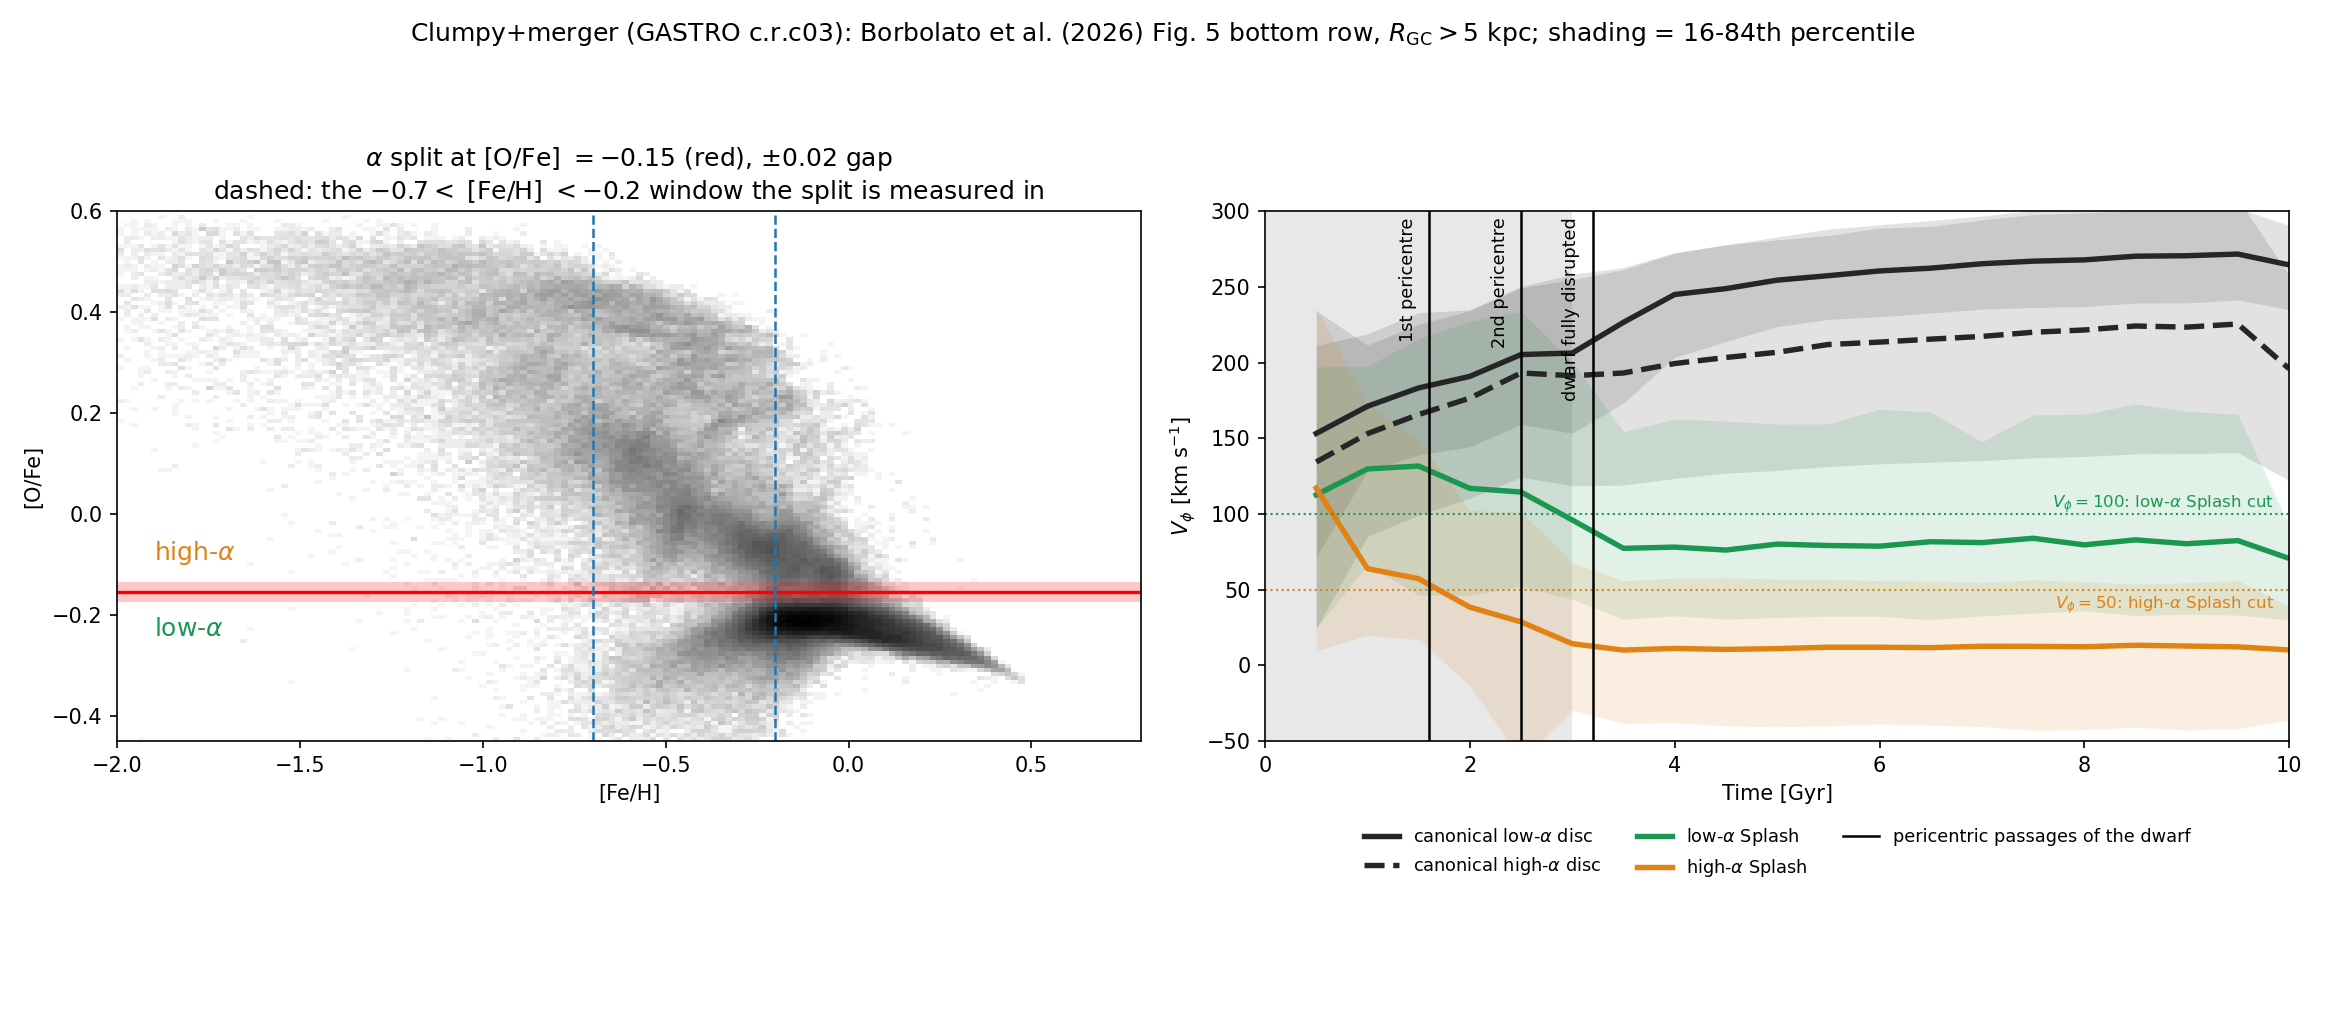
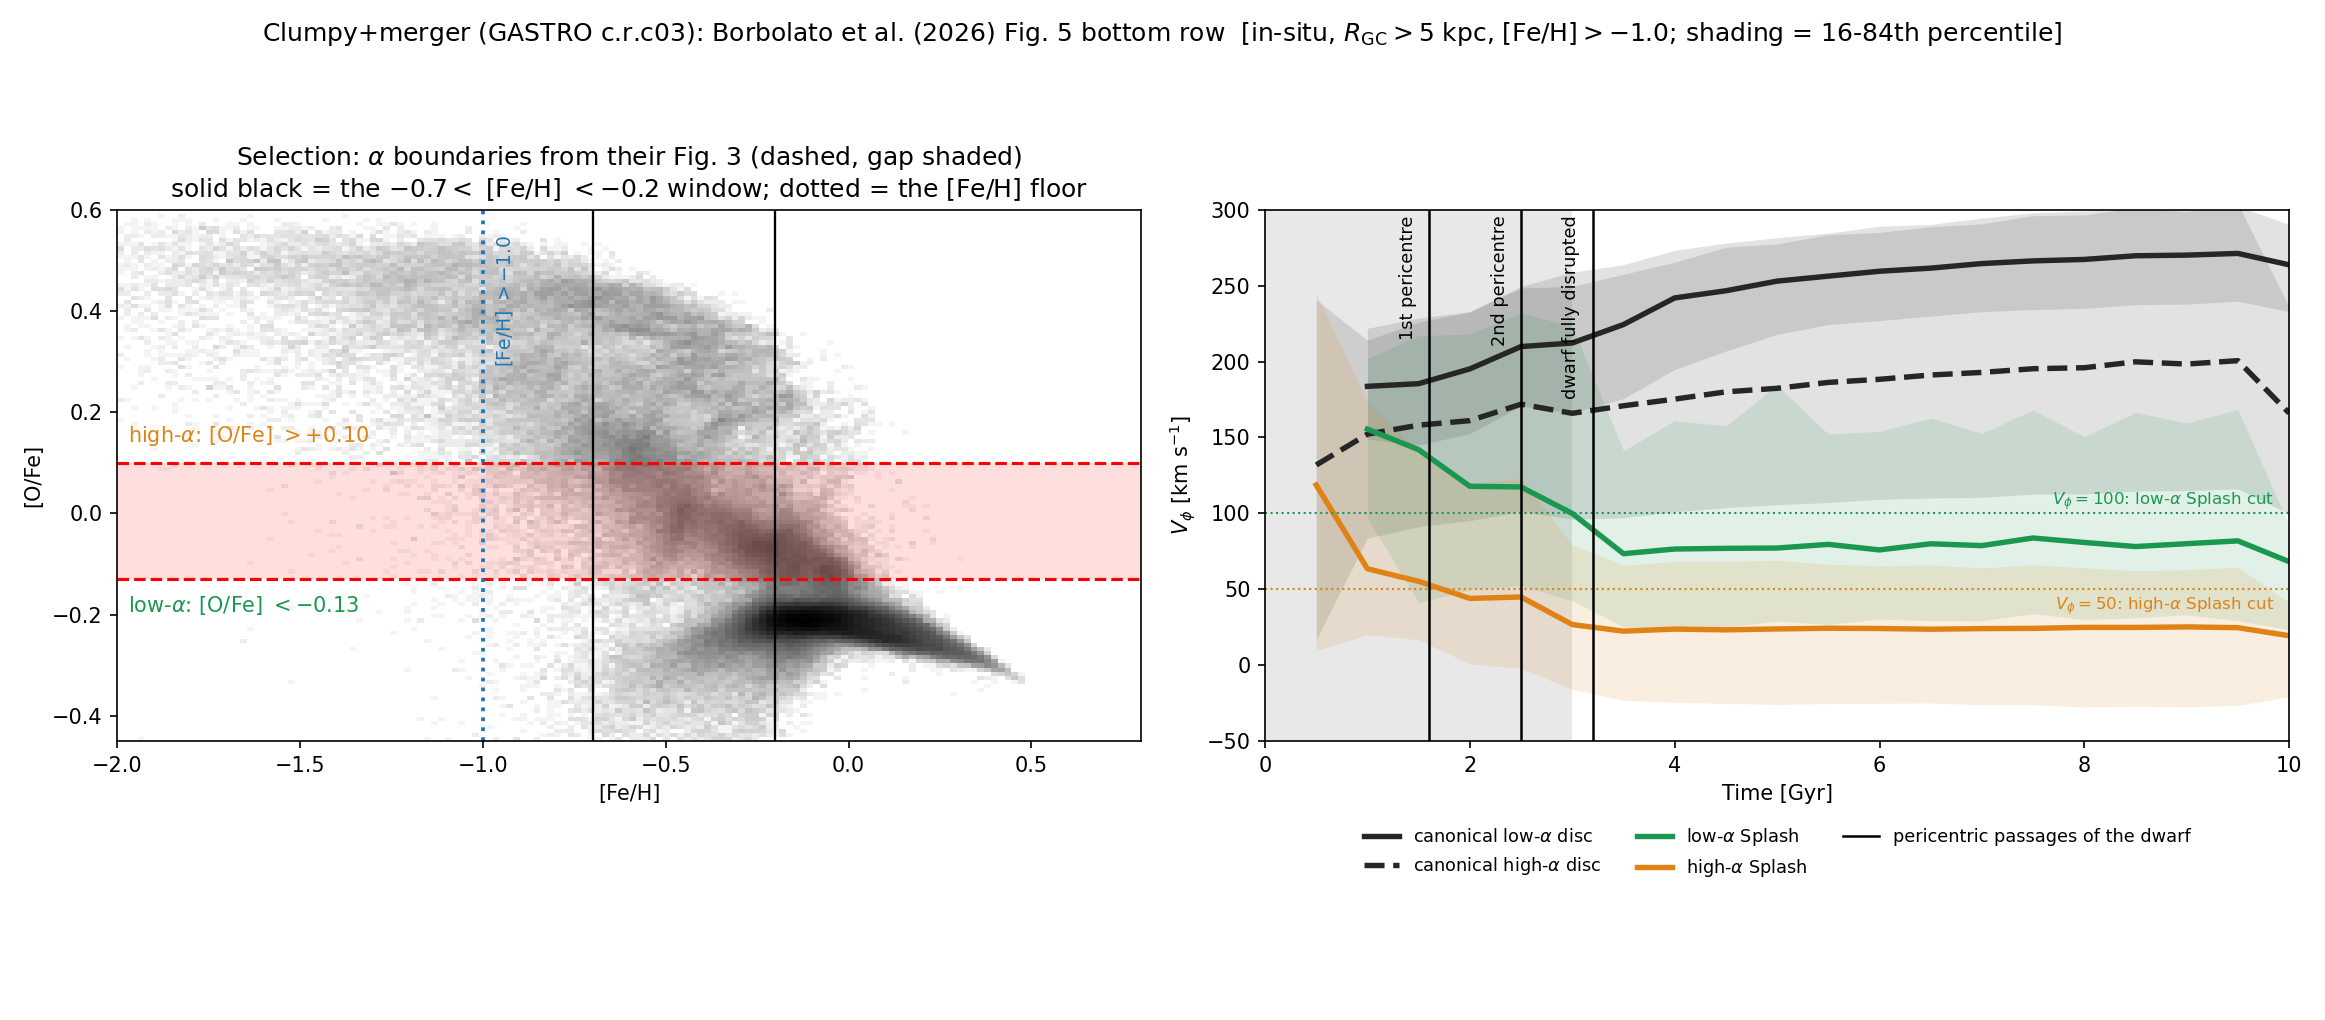
Fix the Fig. 5 Splash track: apply the paper's [Fe/H] > -1.0 floor
The low-alpha Splash track started ~50 km/s below the disc at t=1 Gyr, where the
published figure has the two meeting. Ruled out the alpha threshold, satellite
exclusion, mean vs median, the radial cut and the frame alignment (realigning on
in-situ stars inside 8 kpc moves the t=1 median by 0.6 km/s), then found the
cause in the sample rather than the measurement.

Without a metallicity floor the low-alpha sample picks up a metal-poor tail: the
stars in it born before t=1 Gyr sit at [Fe/H]=-1.2 and [O/Fe]=-0.29 while their
birth cohort sits at +0.28, i.e. a 1.7% chemically odd tail rather than disc
stars, and they are already dynamically hot. Borbolato et al. Section 3.1 select
their disks for [Fe/H] > -1.0, which removes them.

With the floor the disc track reads 184 km/s at t=1 Gyr against the 182 read off
their figure, the Splash track rises from 130 to 155, the track begins at t=1 Gyr
as theirs does (earlier snapshots hold too few stars), and the low-alpha Splash
fraction is 0.26% against 0.25% in their APOGEE sample.

Also adopts their printed alpha boundaries, [O/Fe] < -0.13 and > +0.10 from their
Fig. 3 col. 4, in place of the +/-0.02 gap around the measured valley; the
independently measured valley at -0.155 agrees with their -0.13.

diff --git a/gastro/ana_gastro_fig5.py b/gastro/ana_gastro_fig5.py
@@ -1,24 +1,31 @@
 """Bottom-row reproduction of Borbolato et al. (2026) Figure 5, Clumpy+merger model.
 
 Two panels:
-  left   the [O/Fe]-[Fe/H] plane with the high/low-alpha boundary drawn on it,
-         which is the one step of their recipe that has to be inferred rather
-         than read off, so it is shown rather than asserted;
+  left   the [O/Fe]-[Fe/H] plane with the selection drawn on it, so the cuts are
+         visible rather than asserted;
   right  their Figure 5 bottom row: the evolution of V_phi for the low- and
          high-alpha Splash against their canonical discs.
 
-Cuts follow Borbolato et al. Section 3.1-3.2 exactly:
-  * oxygen is the alpha tracer; the split is the valley in the [O/Fe] histogram
-    taken over -0.7 < [Fe/H] < -0.2, with an exclusion gap either side (their
-    "gap between the two populations to avoid regions where they may overlap");
-  * R_GC > 5 kpc, as in their Section 3.2 ("stars at R_GC < 5 kpc are excluded
-    from the analysis").  This is the literal cut, not one rescaled by the disc
-    scale length: it reproduces their Splash fractions, 0.21% of the low-alpha
-    and 8.10% of the high-alpha population here against 0.25% and 8.16% in their
-    APOGEE sample, whereas rescaling by R_d gives 0.43% and 6.73%;
-  * Splash = V_phi < 100 km/s (low-alpha) and V_phi < 50 km/s (high-alpha), the
+Every cut is taken from the paper rather than inferred:
+
+  * alpha tracer is oxygen.  The high/low boundaries are the values printed in
+    their Figure 3, column 4 (Clumpy+merger): **low-alpha [O/Fe] < -0.13,
+    high-alpha [O/Fe] > +0.10**, with the span between them discarded -- their
+    "gap between the two populations to avoid regions where they may overlap".
+    Measuring the valley of the [O/Fe] histogram over -0.7 < [Fe/H] < -0.2
+    independently gives -0.155, consistent with their -0.13.
+  * **[Fe/H] > -1.0** (their Section 3.1, "we select low- and high-alpha disks
+    using [Mg/Fe]-[Fe/H] for stars with [Fe/H] > -1.0").  This matters far more
+    than it looks: without it the low-alpha sample picks up a metal-poor tail
+    ([Fe/H] ~ -1.2) of stars that are chemically odd rather than disc stars --
+    at t_form < 1 Gyr they are 1.7% of their birth cohort, sitting at
+    [O/Fe] = -0.29 while the cohort sits at +0.28.  They are already dynamically
+    hot, and they drag the early Splash track down by ~25 km/s.
+  * R_GC > 5 kpc (their Section 3.2), taken literally rather than rescaled by the
+    disc scale length: it reproduces their Splash fractions.
+  * Splash = V_phi < 100 km/s (low-alpha), V_phi < 50 km/s (high-alpha), the
     stricter cut for high-alpha because the simulated thick disc is more heated
-    than the Milky Way's.  No eccentricity and no age cut.
+    than the Milky Way's.  No eccentricity cut and no age cut.
 
 Reads out/fig5_clumpy_merger.npz (built by gastro_fig5_prep.py).
 """
@@ -36,47 +43,52 @@ import gastro_config as G
 os.makedirs(G.FIG_DIR, exist_ok=True)
 d = np.load(G.OUT_DIR + '/fig5_clumpy_merger.npz')
 
-# The dwarf's three pericentric passages (Borbolato et al. Sec. 2.2 and Fig. 5).
+# --- the paper's cuts --------------------------------------------------------
+OFE_LOW, OFE_HIGH = -0.13, 0.10      # Borbolato et al. Fig. 3, col. 4
+FEH_MIN = -1.0                       # their Sec. 3.1
+RMIN = 5.0                           # their Sec. 3.2
+VPHI_LOW, VPHI_HIGH = 100., 50.      # Splash cuts
+FEH_WINDOW = (-0.7, -0.2)            # window the split is measured in
+NMIN = 15                            # a track point needs at least this many stars
+BAND = (16, 84)
+# The dwarf's three pericentric passages (their Sec. 2.2 and Fig. 5).
 PERI = [(1.6, '1st pericentre'), (2.5, '2nd pericentre'), (3.2, 'dwarf fully disrupted')]
 CLUMPY_PHASE = (0., 3.)
-RMIN = 5.0
-VPHI_LOW, VPHI_HIGH = 100., 50.
-FEH_WINDOW = (-0.7, -0.2)
-BAND = (16, 84)                      # percentile band drawn around each track
 C_LOW, C_HIGH, C_DISC = '#1a9850', '#e08214', '0.15'
 
 MODEL_DIR = G.HERE + '/jrun003.dwarfM06XY138Z37Vxy20FB20'
 NAME = 'dwarfM06XY138Z37Vxy20FB20'
 
 ofe, feh, R, vphi0, Rform = d['ofe'], d['feh'], d['R'], d['vphi'], d['Rform']
-dip, gap = float(d['dip']), float(d['gap'])
 times, counts = d['times'], d['counts']
 zform = np.load(f'{MODEL_DIR}/{NAME}_zform.npy')
 
 insitu = ~G.satellite_born(Rform, zform)
-vol = insitu & (R > RMIN)
-low = vol & (ofe < dip - gap)
-high = vol & (ofe > dip + gap)
+vol = insitu & (R > RMIN) & (feh > FEH_MIN)
+low = vol & (ofe < OFE_LOW)
+high = vol & (ofe > OFE_HIGH)
 splash_low = low & (vphi0 < VPHI_LOW)
 splash_high = high & (vphi0 < VPHI_HIGH)
 
-print(f'R > {RMIN:.0f} kpc, satellite-born excluded ({(~insitu).sum():,} stars); '
-      f'alpha split [O/Fe]={dip:+.3f} +/-{gap}')
-print(f'  low-alpha  {low.sum():>7,} -> Splash {splash_low.sum():>6,} '
-      f'({100*splash_low.sum()/low.sum():.2f}%)   [APOGEE: 0.25%]')
-print(f'  high-alpha {high.sum():>7,} -> Splash {splash_high.sum():>6,} '
-      f'({100*splash_high.sum()/high.sum():.2f}%)   [APOGEE: 8.16%]')
+print(f'R > {RMIN:.0f} kpc, [Fe/H] > {FEH_MIN}, satellite-born excluded ({(~insitu).sum():,})')
+print(f'  low-alpha  ([O/Fe] < {OFE_LOW})  {low.sum():>7,} -> Splash {splash_low.sum():>6,} '
+      f'({100*splash_low.sum()/low.sum():.2f}%)   [their APOGEE: 0.25%]')
+print(f'  high-alpha ([O/Fe] > {OFE_HIGH})  {high.sum():>7,} -> Splash {splash_high.sum():>6,} '
+      f'({100*splash_high.sum()/high.sum():.2f}%)   [their APOGEE: 8.16%]')
 
 
-def track(mask, nmin=20):
-    """Median V_phi and the percentile band, per snapshot, from the cached arrays."""
+def track(mask):
+    """Median V_phi and percentile band per snapshot, from the cached arrays.
+
+    Stars that have not formed yet simply are not in that snapshot's array, so
+    the early points are built from whatever exists -- the track starts where the
+    population first has NMIN members, which is t = 1 Gyr, as in their figure.
+    """
     off = np.concatenate([[0], np.cumsum(counts)])
-    med = np.full(len(times), np.nan)
-    lo = np.full(len(times), np.nan)
-    hi = np.full(len(times), np.nan)
+    med, lo, hi = (np.full(len(times), np.nan) for _ in range(3))
     for k, n in enumerate(counts):
         v = d['snap_vphi'][off[k]:off[k] + n][mask[:n]]
-        if len(v) >= nmin:
+        if len(v) >= NMIN:
             med[k] = np.median(v)
             lo[k], hi[k] = np.percentile(v, BAND)
     return med, lo, hi
@@ -84,42 +96,45 @@ def track(mask, nmin=20):
 
 fig, (axL, axR) = plt.subplots(1, 2, figsize=(15.5, 6.8))
 
-# ------------------------------------------------- left: the alpha boundary --
-axL.hist2d(feh[vol], ofe[vol], bins=(150, 130), range=((-2.0, 0.8), (-0.45, 0.6)),
+# ------------------------------------------------- left: the selection plane --
+sel_vol = insitu & (R > RMIN)
+axL.hist2d(feh[sel_vol], ofe[sel_vol], bins=(150, 130), range=((-2.0, 0.8), (-0.45, 0.6)),
            norm=LogNorm(), cmap='Greys')
-axL.axhspan(dip - gap, dip + gap, color='r', alpha=.22, lw=0)
-axL.axhline(dip, color='r', lw=1.6)
-for v in FEH_WINDOW:
-    axL.axvline(v, color='tab:blue', lw=1.2, ls='--')
-axL.text(-1.9, dip + gap + .03, 'high-$\\alpha$', color=C_HIGH, fontsize=12, va='bottom')
-axL.text(-1.9, dip - gap - .03, 'low-$\\alpha$', color=C_LOW, fontsize=12, va='top')
+axL.axhspan(OFE_LOW, OFE_HIGH, color='r', alpha=.13, lw=0)
+for y in (OFE_LOW, OFE_HIGH):
+    axL.axhline(y, color='r', lw=1.5, ls='--')
+for x in FEH_WINDOW:
+    axL.axvline(x, color='k', lw=1.1)
+axL.axvline(FEH_MIN, color='tab:blue', lw=1.8, ls=':')
+axL.text(-1.97, OFE_HIGH + .03, f'high-$\\alpha$: [O/Fe] $> {OFE_HIGH:+.2f}$',
+         color=C_HIGH, fontsize=10, va='bottom')
+axL.text(-1.97, OFE_LOW - .03, f'low-$\\alpha$: [O/Fe] $< {OFE_LOW:+.2f}$',
+         color=C_LOW, fontsize=10, va='top')
+axL.text(FEH_MIN + .03, .55, '[Fe/H] $>-1.0$', color='tab:blue', fontsize=9, rotation=90,
+         va='top')
 axL.set(xlabel='[Fe/H]', ylabel='[O/Fe]',
-        title=f'$\\alpha$ split at [O/Fe] $= {dip:+.2f}$ (red), $\\pm{gap}$ gap\n'
-              f'dashed: the ${FEH_WINDOW[0]} <$ [Fe/H] $< {FEH_WINDOW[1]}$ window '
-              'the split is measured in')
+        title='Selection: $\\alpha$ boundaries from their Fig. 3 (dashed, gap shaded)\n'
+              'solid black = the $-0.7<$ [Fe/H] $<-0.2$ window; dotted = the [Fe/H] floor')
 
 # -------------------------------------- right: Figure 5 bottom row, V_phi(t) --
 axR.axvspan(*CLUMPY_PHASE, color='0.5', alpha=.18, lw=0)
-for m, c, lab in [(low & ~splash_low, C_DISC, 'canonical low-$\\alpha$ disc'),
-                  (high & ~splash_high, C_DISC, 'canonical high-$\\alpha$ disc'),
-                  (splash_low, C_LOW, 'low-$\\alpha$ Splash'),
-                  (splash_high, C_HIGH, 'high-$\\alpha$ Splash')]:
+for m, c, lab, ls in [(low & ~splash_low, C_DISC, 'canonical low-$\\alpha$ disc', '-'),
+                      (high & ~splash_high, C_DISC, 'canonical high-$\\alpha$ disc', '--'),
+                      (splash_low, C_LOW, 'low-$\\alpha$ Splash', '-'),
+                      (splash_high, C_HIGH, 'high-$\\alpha$ Splash', '-')]:
     med, lo, hi = track(m)
-    ls = '--' if (c == C_DISC and 'high' in lab) else '-'
     axR.fill_between(times, lo, hi, color=c, alpha=.13, lw=0)
     axR.plot(times, med, color=c, lw=2.6, ls=ls, label=lab)
 
 axR.axhline(VPHI_LOW, color=C_LOW, lw=1.0, ls=':')
 axR.axhline(VPHI_HIGH, color=C_HIGH, lw=1.0, ls=':')
-axR.text(9.85, VPHI_LOW + 4, r'$V_\phi=100$: low-$\alpha$ Splash cut', color=C_LOW,
+axR.text(9.85, VPHI_LOW + 5, r'$V_\phi=100$: low-$\alpha$ Splash cut', color=C_LOW,
          fontsize=8, ha='right')
-axR.text(9.85, VPHI_HIGH - 13, r'$V_\phi=50$: high-$\alpha$ Splash cut', color=C_HIGH,
+axR.text(9.85, VPHI_HIGH - 14, r'$V_\phi=50$: high-$\alpha$ Splash cut', color=C_HIGH,
          fontsize=8, ha='right')
-
 for t, lab in PERI:
     axR.axvline(t, color='k', lw=1.2)
     axR.text(t - .12, 296, lab, rotation=90, ha='right', va='top', fontsize=8.5)
-
 axR.set(xlim=(0, 10), ylim=(-50, 300), xlabel='Time [Gyr]',
         ylabel=r'$V_\phi$ [km s$^{-1}$]')
 handles, labels = axR.get_legend_handles_labels()
@@ -128,16 +143,17 @@ labels.append('pericentric passages of the dwarf')
 axR.legend(handles, labels, fontsize=8.5, ncol=3, loc='upper center',
            bbox_to_anchor=(.5, -.13), frameon=False)
 
-fig.suptitle('Clumpy+merger (GASTRO c.r.c03): Borbolato et al. (2026) Fig. 5 bottom row, '
-             f'$R_{{\\rm GC}}>{RMIN:.0f}$ kpc; shading = {BAND[0]}-{BAND[1]}th percentile',
-             fontsize=12)
+fig.suptitle('Clumpy+merger (GASTRO c.r.c03): Borbolato et al. (2026) Fig. 5 bottom row  '
+             f'[in-situ, $R_{{\\rm GC}}>{RMIN:.0f}$ kpc, [Fe/H]$>{FEH_MIN}$; '
+             f'shading = {BAND[0]}-{BAND[1]}th percentile]', fontsize=12)
 fig.tight_layout(rect=[0, .07, 1, .93])
 out = G.FIG_DIR + '/gastro_fig5_clumpy_merger.png'
 fig.savefig(out, dpi=150)
 
-print('\n  t     splash_low   disc_low   splash_high   disc_high')
-tl, _, _ = track(splash_low); dl, _, _ = track(low & ~splash_low)
-th, _, _ = track(splash_high); dh, _, _ = track(high & ~splash_high)
+gl, _, _ = track(splash_low); dl, _, _ = track(low & ~splash_low)
+gh, _, _ = track(splash_high); dh, _, _ = track(high & ~splash_high)
+print('\n  t    low-a Splash  low-a disc | high-a Splash  high-a disc'
+      '     (their Fig. 5, read off: green 185 at t=1, black 182)')
 for k in range(len(times)):
-    print(f'  {times[k]:4.1f}  {tl[k]:10.1f} {dl[k]:10.1f} {th[k]:13.1f} {dh[k]:11.1f}')
+    print(f'  {times[k]:4.1f}  {gl[k]:12.1f} {dl[k]:11.1f} | {gh[k]:13.1f} {dh[k]:12.1f}')
 print('saved', out)

diff --git a/gastro/README.md b/gastro/README.md
@@ -57,6 +57,29 @@ Borbolato et al. (2026) §2.2 give the satellite a "total dark matter... mass of
   small file and would settle it exactly.
 * **Aux abundance arrays exist for the final snapshot only.** Not a problem for
   Fig. 5: populations are selected at z=0 and tracked backwards by array index.
+## Selection cuts (all taken from the paper, not inferred)
+
+| cut | value | source |
+|---|---|---|
+| α tracer | oxygen, [O/Fe] | their footnote 5 |
+| low-α | [O/Fe] < −0.13 | printed in their Fig. 3, col. 4 |
+| high-α | [O/Fe] > +0.10 | same; the span between is their exclusion "gap" |
+| metallicity floor | **[Fe/H] > −1.0** | their §3.1 |
+| volume | R_GC > 5 kpc | their §3.2 |
+| Splash | V_φ < 100 (low-α), V_φ < 50 (high-α) | their §3.2; no eccentricity, no age cut |
+
+The **[Fe/H] > −1.0 floor matters far more than it looks**. Without it the low-α
+sample picks up a metal-poor tail ([Fe/H] ≈ −1.2) that is chemically odd rather
+than disc-like: among stars born before t = 1 Gyr these are 1.7 % of their birth
+cohort and sit at [O/Fe] = −0.29 while the cohort sits at +0.28. They are already
+dynamically hot, and they drag the early Splash track down by ~25 km/s — enough
+that the Splash and disc curves no longer meet at t = 1 Gyr as they do in the
+published figure. With the floor applied the disc track reads 184 km/s at
+t = 1 Gyr against the 182 read off their figure.
+
+Measuring the [O/Fe] valley independently (deepest minimum over −0.7 < [Fe/H] <
+−0.2) gives −0.155, consistent with their −0.13; the scripts use their value.
+
 ## Radial cut
 
 Borbolato et al. describe two things that read as if they conflict: normalising
